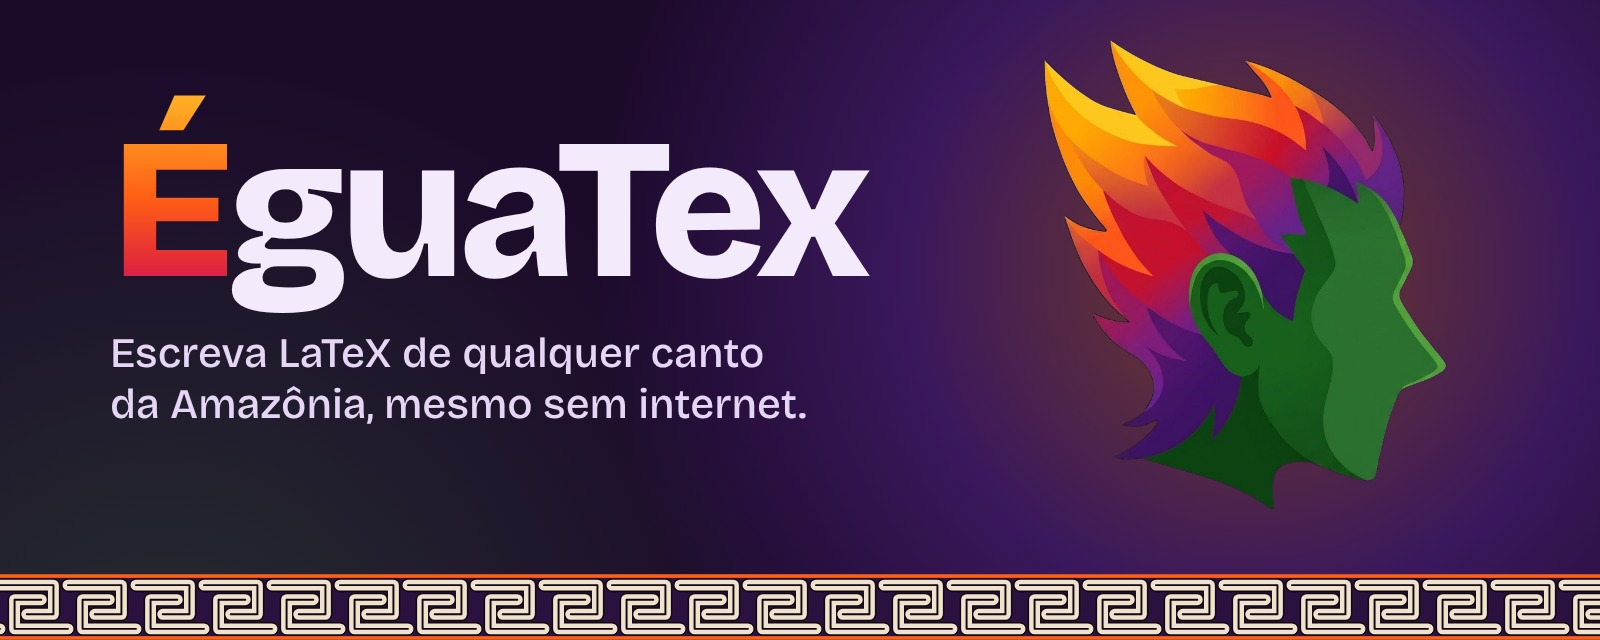
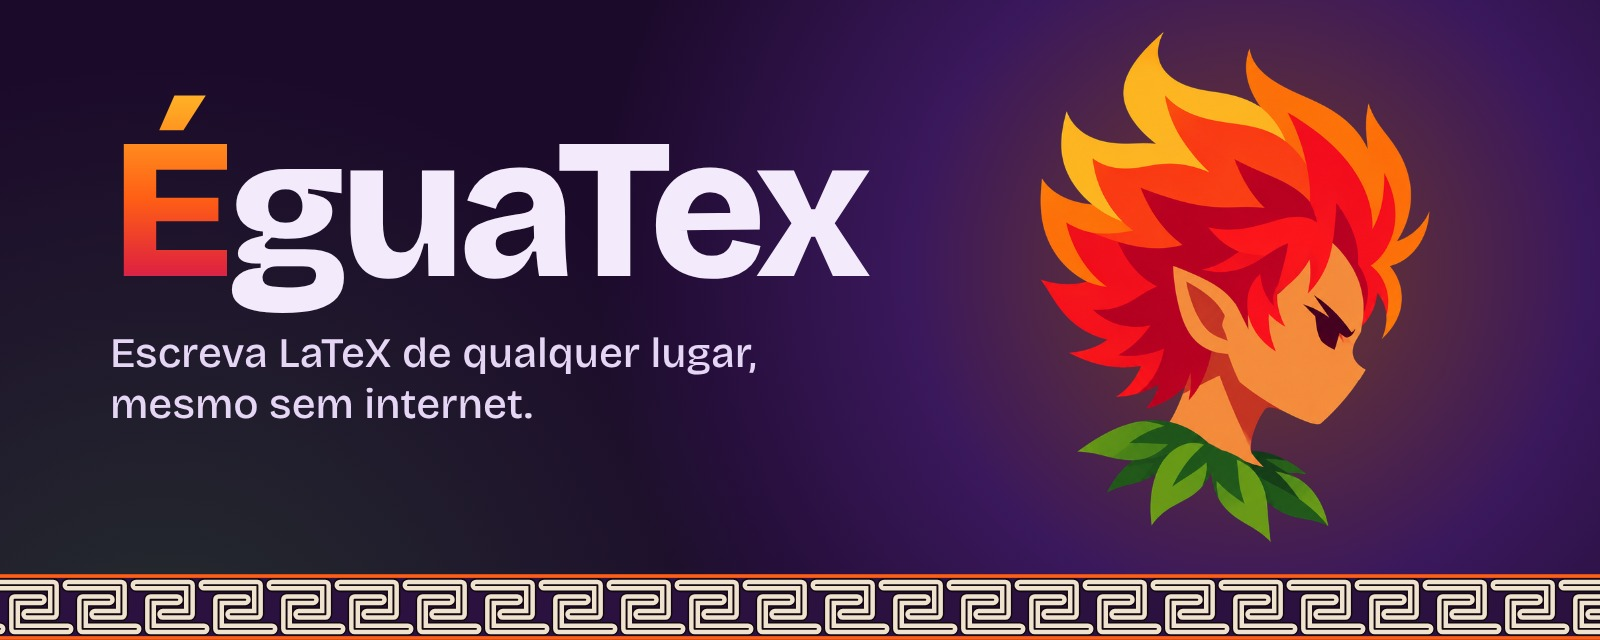
Add files via upload

Changed region(s): [[0.625, 0.0625, 0.9062, 0.8438], [0.0625, 0.5312, 0.5, 0.6562]]

diff --git a/profile/README.md b/profile/README.md
@@ -1,6 +1,6 @@
 <p align="center">
   <a href="https://egua-tex.github.io/">
-    <img src="capa.jpg" alt="ÉguaTex, editor LaTeX feito no Pará. Gratuito, funciona sem internet e em português. Ao lado, a logo do curupira de pele verde e cabelo em chamas." width="100%">
+    <img src="capa.jpg" alt="ÉguaTex: Escreva LaTeX de qualquer lugar, mesmo sem internet. Ao lado, a logo do curupira de perfil, com cabelo em chamas e colar de folhas." width="100%">
   </a>
 </p>
 
@@ -18,13 +18,23 @@
 
 ## Sobre
 
-O ÉguaTex é um programa que escreve e compila documentos em LaTeX, como TCC, artigos e relatórios, mostrando o PDF ao lado do texto. O compilador já vem junto no instalador, então não é preciso instalar o LaTeX à parte nem estar conectado à internet para trabalhar.
+O ÉguaTex é um editor de LaTeX gratuito para escrever TCC, artigos e relatórios, com o PDF ao lado do texto. O LaTeX já vem junto, então não é preciso instalar nada à parte nem estar conectado à internet para trabalhar.
 
-A ideia é simples: escrever LaTeX de qualquer canto da Amazônia, mesmo sem internet.
+A ideia é simples: escrever LaTeX de qualquer lugar, mesmo sem internet.
+
+## Onde funciona
+
+| Sistema | Requisito |
+| --- | --- |
+| Windows | Windows 10 ou 11, 64 bits |
+| Android | Android 8.0 ou mais novo |
+| Linux | em breve |
+
+Os instaladores ficam na seção [Baixar](https://egua-tex.github.io/#baixar) do site, e o passo a passo de cada sistema está em [Como instalar](https://egua-tex.github.io/instalar.html).
 
 ## Por que um curupira?
 
-Na lenda, o curupira protege a floresta. Tem o cabelo de fogo e os pés virados para trás, e quem tenta seguir as pegadas dele acaba andando na direção errada. O ÉguaTex pegou emprestada essa teimosia: o texto científico cabe no computador de casa e funciona sem internet na beira do rio e no ônibus para a UFPA.
+Na lenda, o curupira protege a floresta. Tem o cabelo de fogo e os pés virados para trás, e quem tenta seguir as pegadas dele acaba andando na direção errada. O ÉguaTex pegou emprestada essa teimosia: o texto científico cabe no computador de casa e no celular, e funciona sem internet na beira do rio e no ônibus para a UFPA.
 
 E o nome? "Égua" é como a gente diz que algo é bom demais por aqui. Égua, que fórmula bonita.
 
@@ -35,5 +45,5 @@ Sugestões, dúvidas e relatos de problemas: [contatoeguatex@gmail.com](mailto:c
 <br>
 
 <p align="center">
-  <sub>Feito no Pará por <a href="https://github.com/jessicamelo0532">Jéssica Melo</a> e José Paulo de Almeida Junior.</sub>
+  <sub>Feito na Amazônia por <a href="https://github.com/jessicamelo0532">Jéssica Lopes Melo</a> e José Paulo de Almeida Junior.</sub>
 </p>
